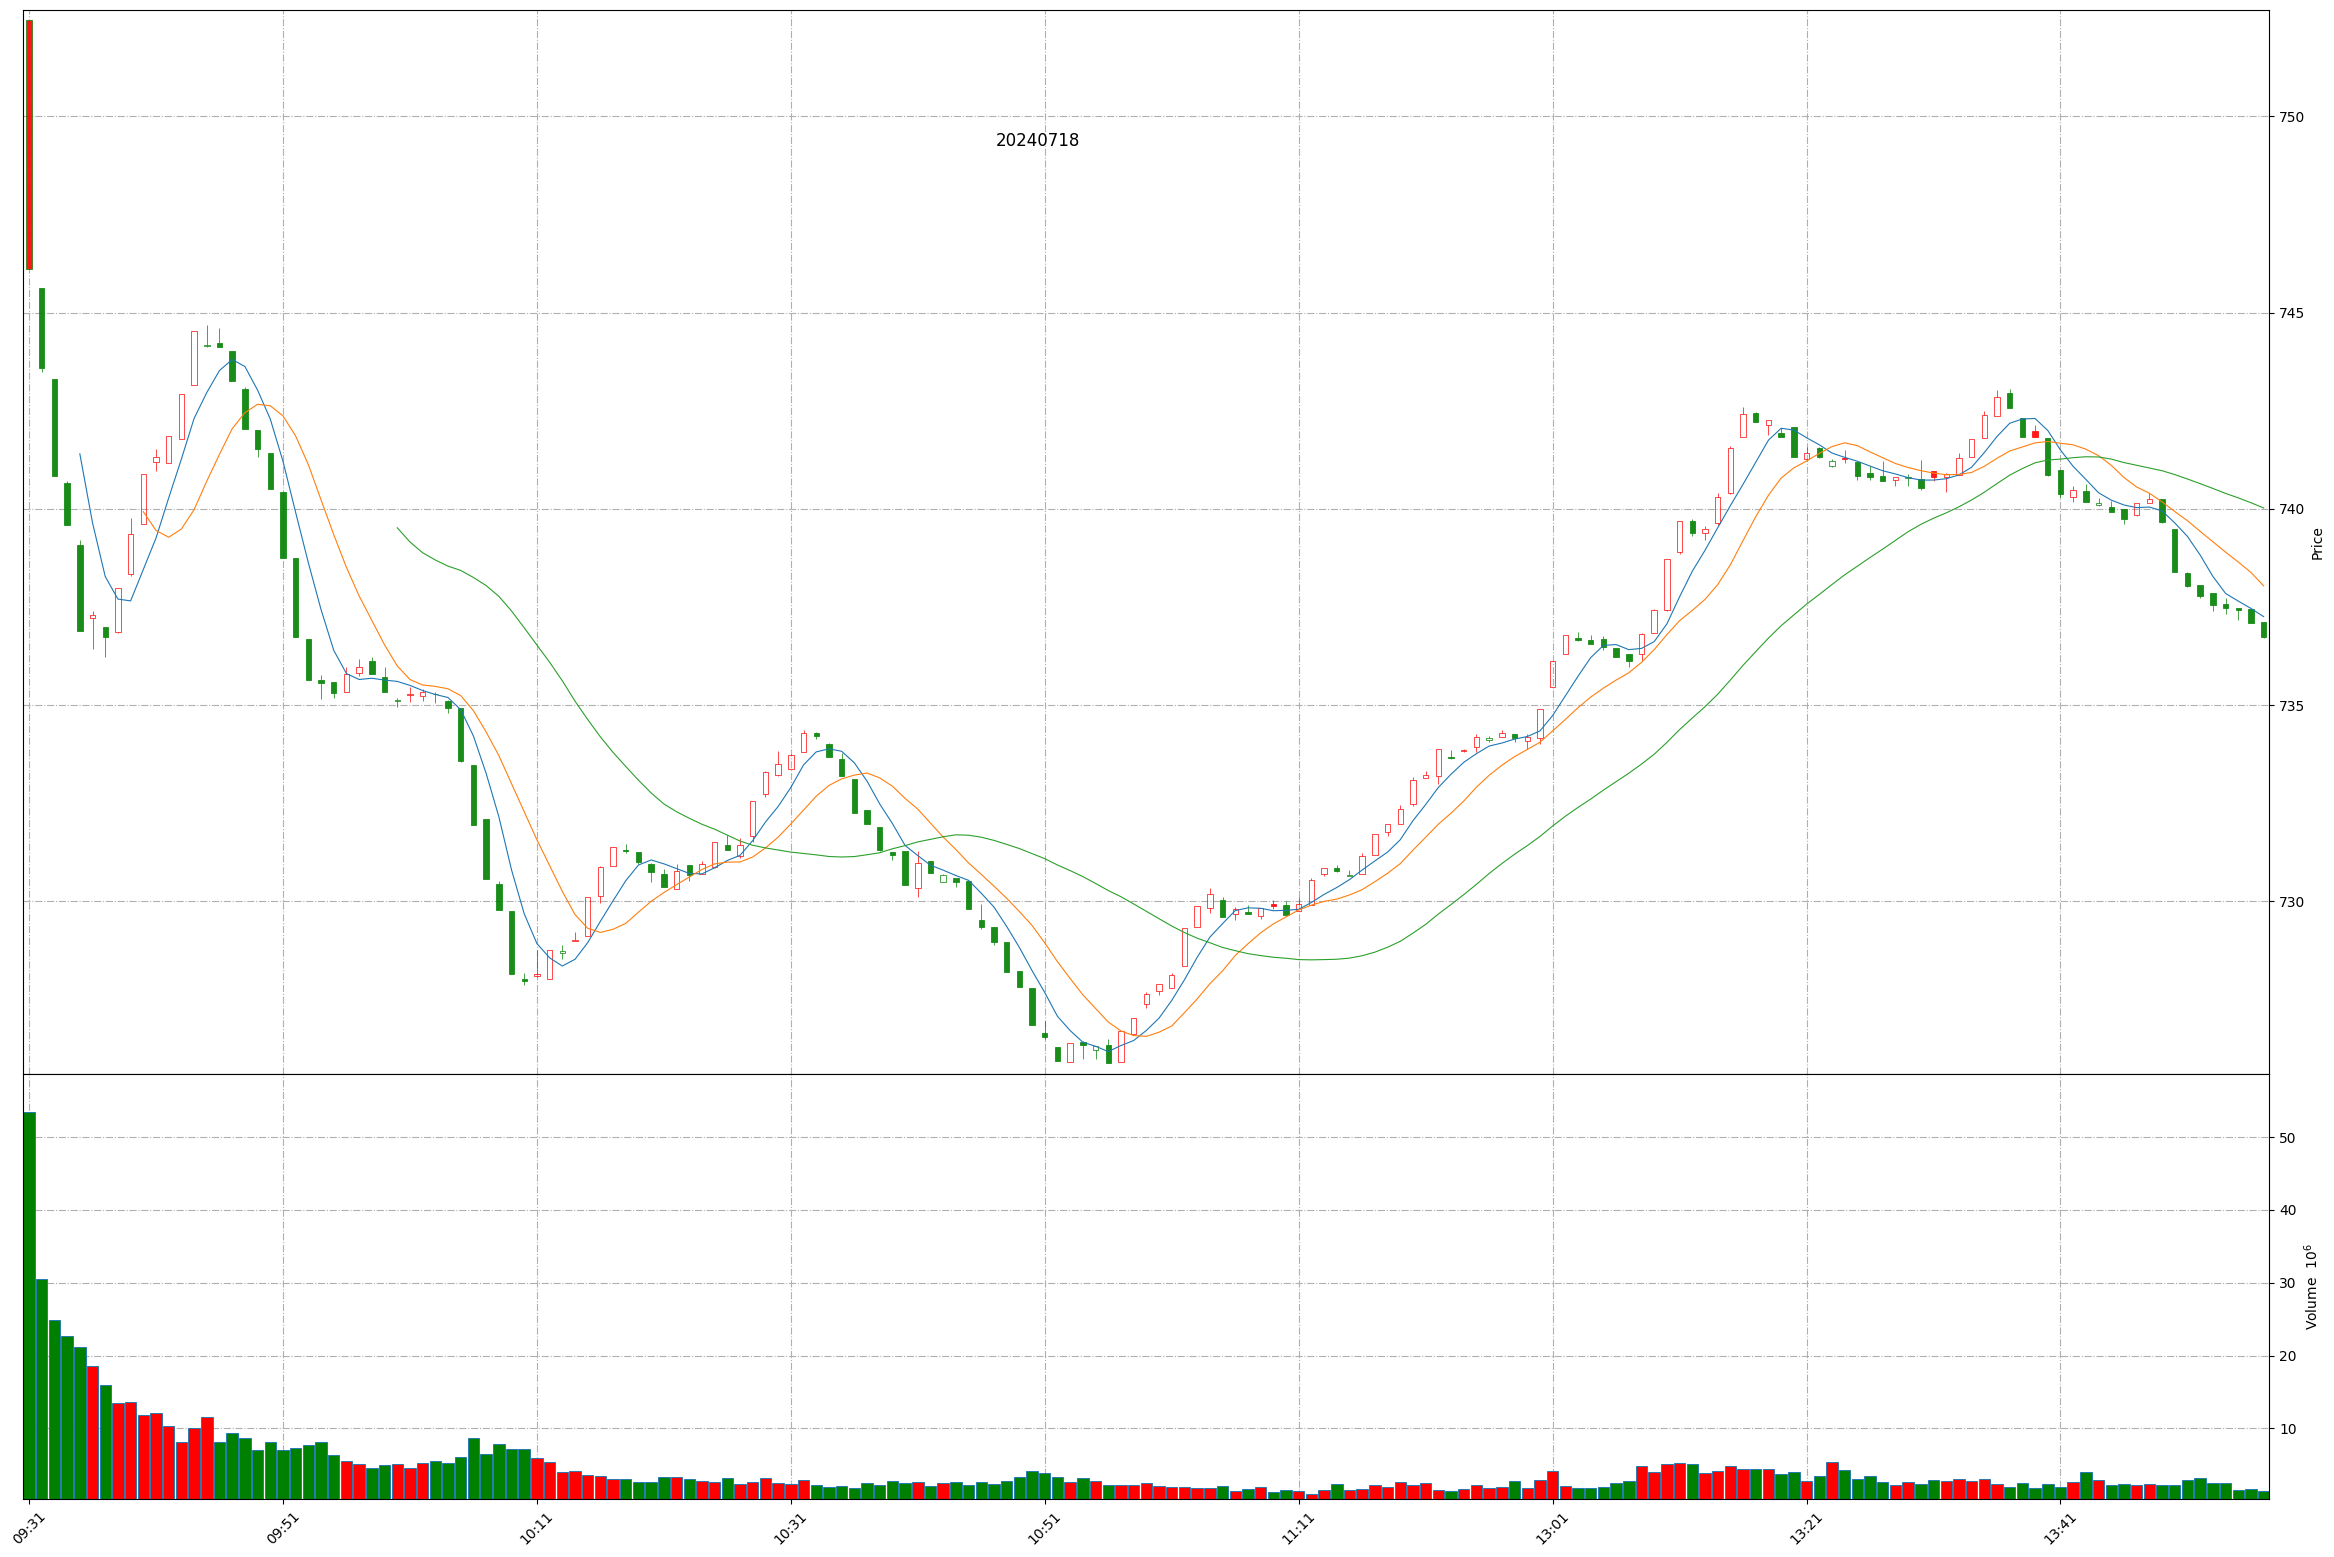
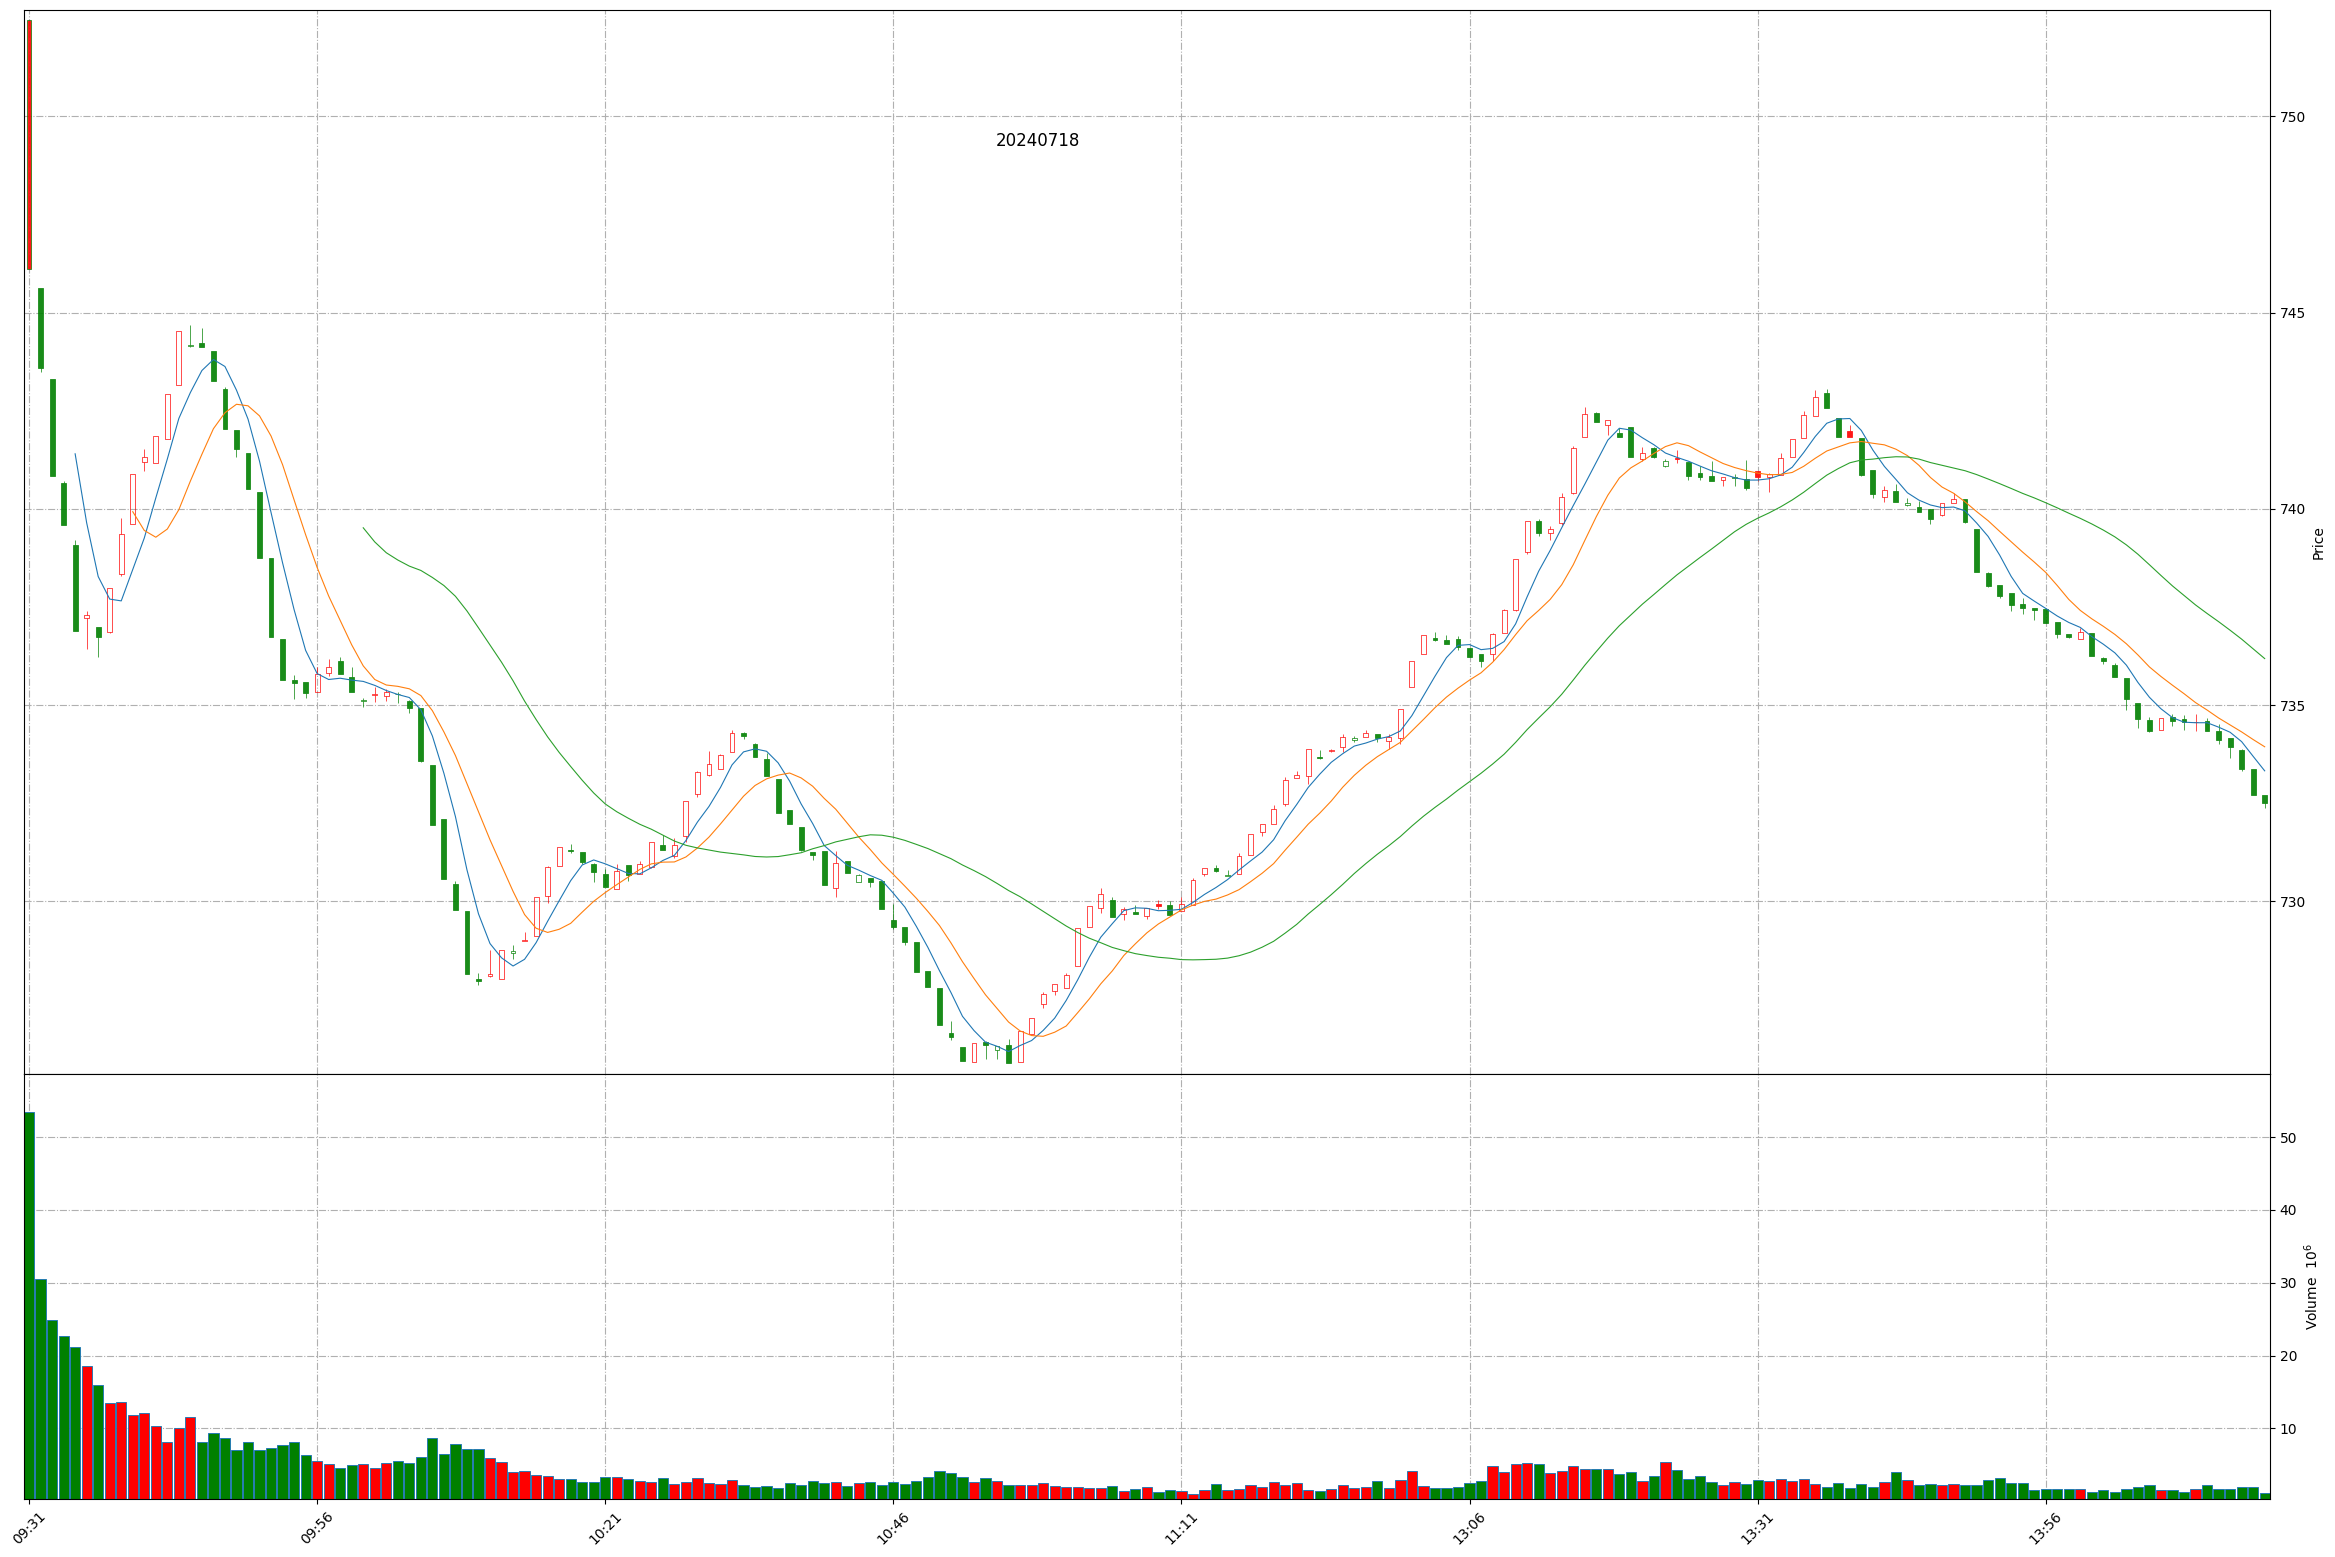
Github action update at 2024-07-18 14:14:38.

diff --git a/README.md b/README.md
@@ -1,11 +1,11 @@
 
 # Daily-A-share-market-quotes 每日 A 股指数（5min 更新）- 20240718
 
-### 上证指数 20240718 13:56
+### 上证指数 20240718 14:14
 ![](./fig/2024/7/20240718-sh000001.png)
 
-### 深证成指 20240718 13:56
+### 深证成指 20240718 14:14
 ![](./fig/2024/7/20240718-sz399001.png)
 
-### 北证50 20240718 13:56
+### 北证50 20240718 14:14
 ![](./fig/2024/7/20240718-bj899050.png)
